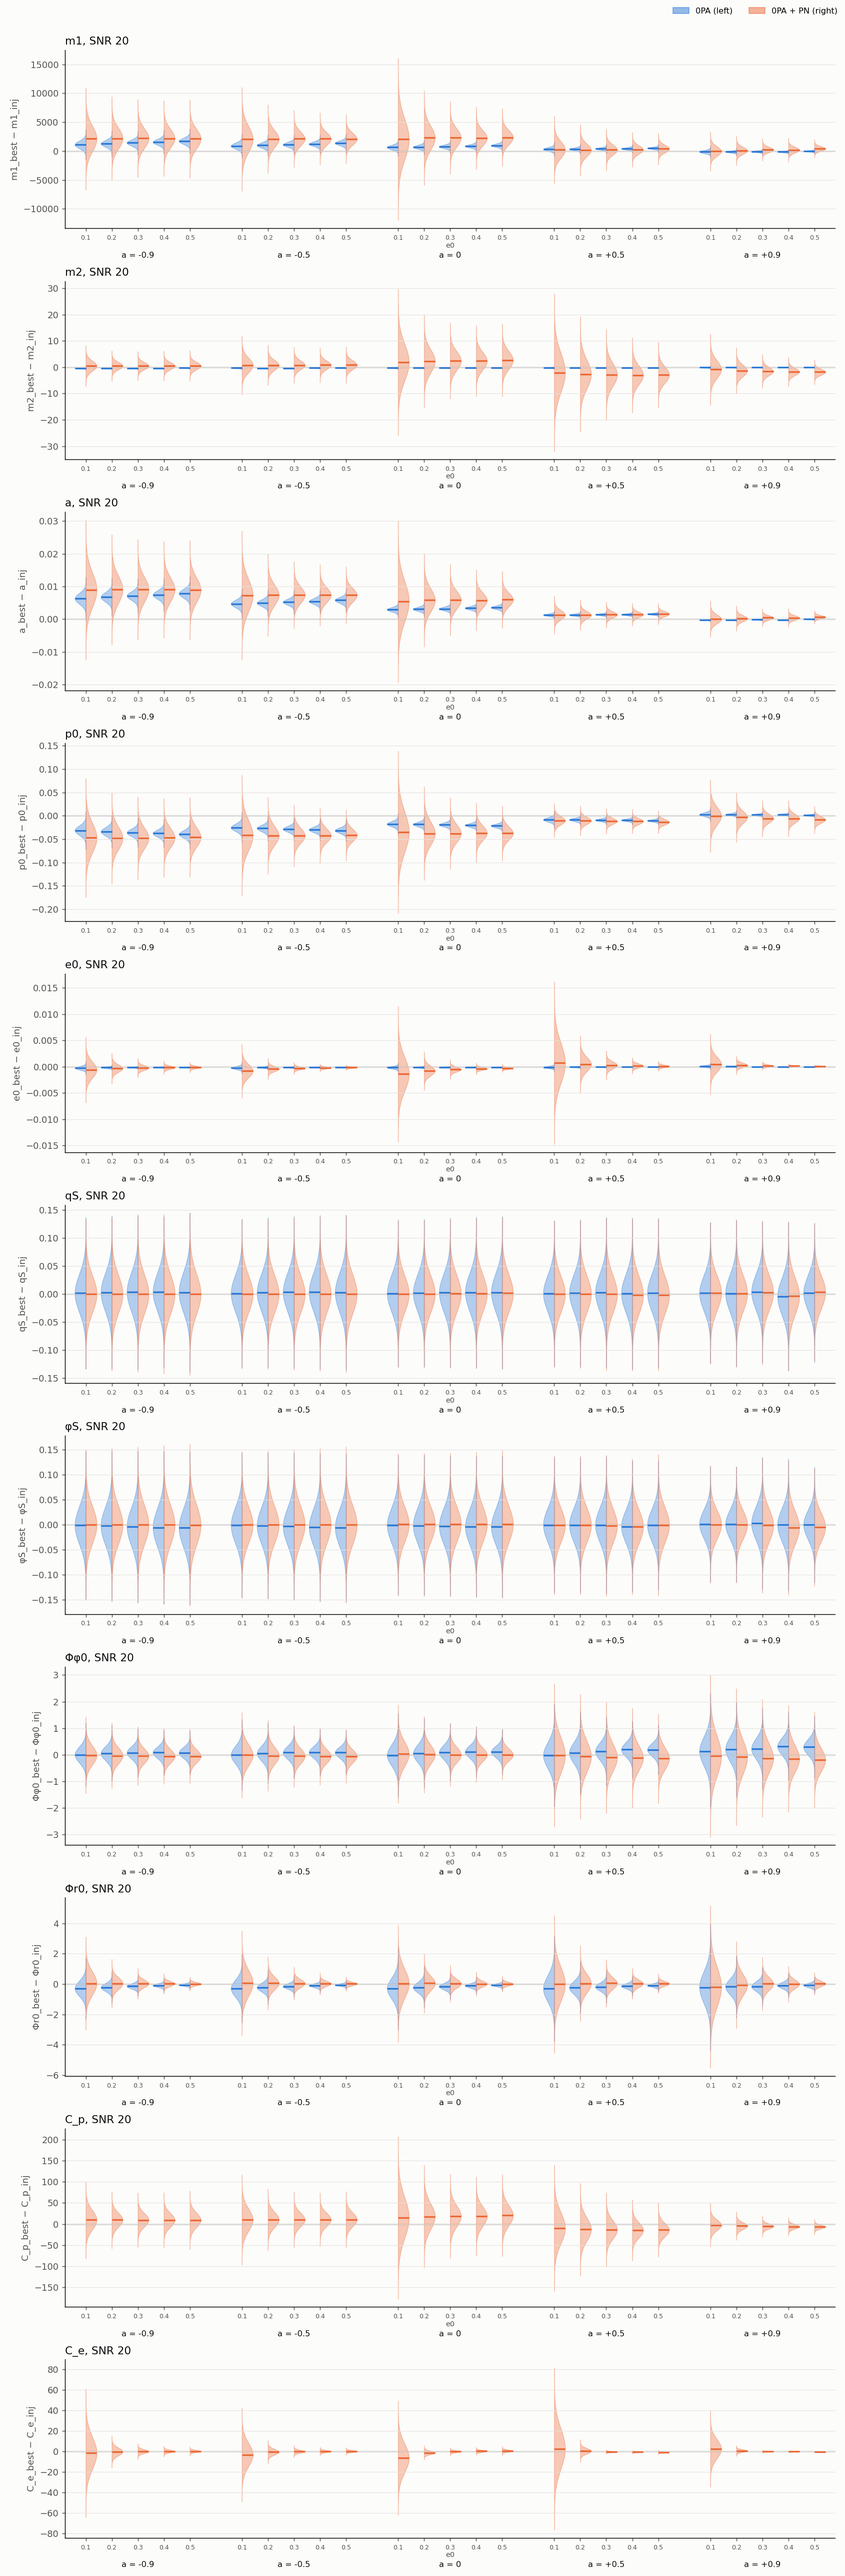
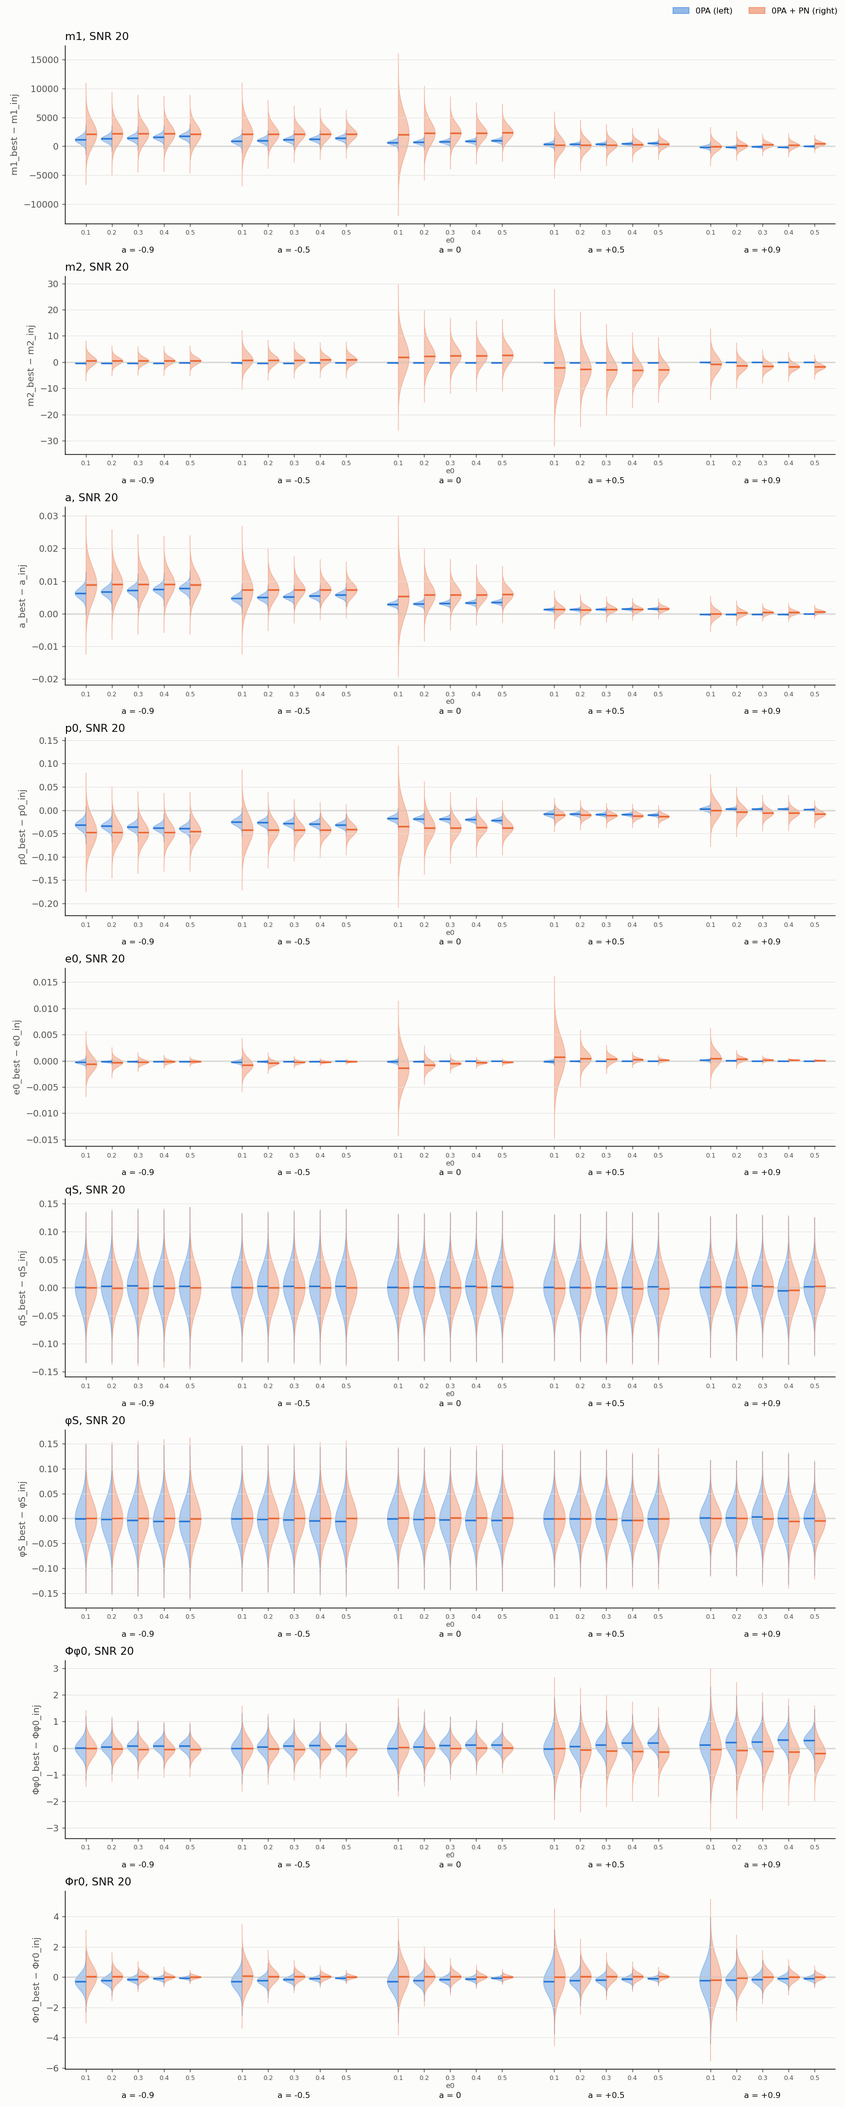
.

diff --git a/IMRI_1PA_PN_DEV/plot_codes/plot_bias_violin_params.py b/IMRI_1PA_PN_DEV/plot_codes/plot_bias_violin_params.py
@@ -4,7 +4,7 @@ the Fisher distribution of x - x_inj: left half 0PA, N(b_0PA, sigma_0PA^2); righ
 only). b = best fit - injection (phases wrapped), sigma from the Fisher matrix at that best fit
 (fisher_at_best.py) at the chosen SNR. Each half is scaled to the same maximum width and cut at
 +-N_SIGMA sigma; the bar is b.
-    -> plots/bias_1D/snr{SNR}/violin_grid.png                  all parameters
+    -> plots/bias_1D/snr{SNR}/violin_grid.png                  physical parameters (no C_p, C_e)
        plots/bias_1D/snr{SNR}/per_param/violin_{param}.png    one file per parameter
 
 Run:  python plot_bias_violin_params.py [--snr 20]
@@ -15,7 +15,7 @@ import matplotlib.pyplot as plt
 import numpy as np
 from matplotlib.patches import Patch
 
-from bias_data import ALL, load_bias
+from bias_data import ALL, PHYS, load_bias
 from common import A_VALUES, E_VALUES, LABEL, SURFACE, TEXT, TEXT_2, out_file
 
 HALVES = (("0pa", "0PA", "#2a78d6", -1), ("pn", "0PA + PN", "#eb6834", +1))
@@ -81,8 +81,8 @@ def single_figure(pts, xs, name, snr):
 
 
 def grid_figure(pts, xs, snr):
-    fig, axes = plt.subplots(len(ALL), 1, figsize=(13, 3.6 * len(ALL)), facecolor=SURFACE)
-    for ax, name in zip(axes, ALL):
+    fig, axes = plt.subplots(len(PHYS), 1, figsize=(13, 3.6 * len(PHYS)), facecolor=SURFACE)
+    for ax, name in zip(axes, PHYS):
         param_axes(ax, pts, name, snr, xs)
     legend(fig)
     fig.tight_layout(rect=(0, 0, 1, 0.99))
